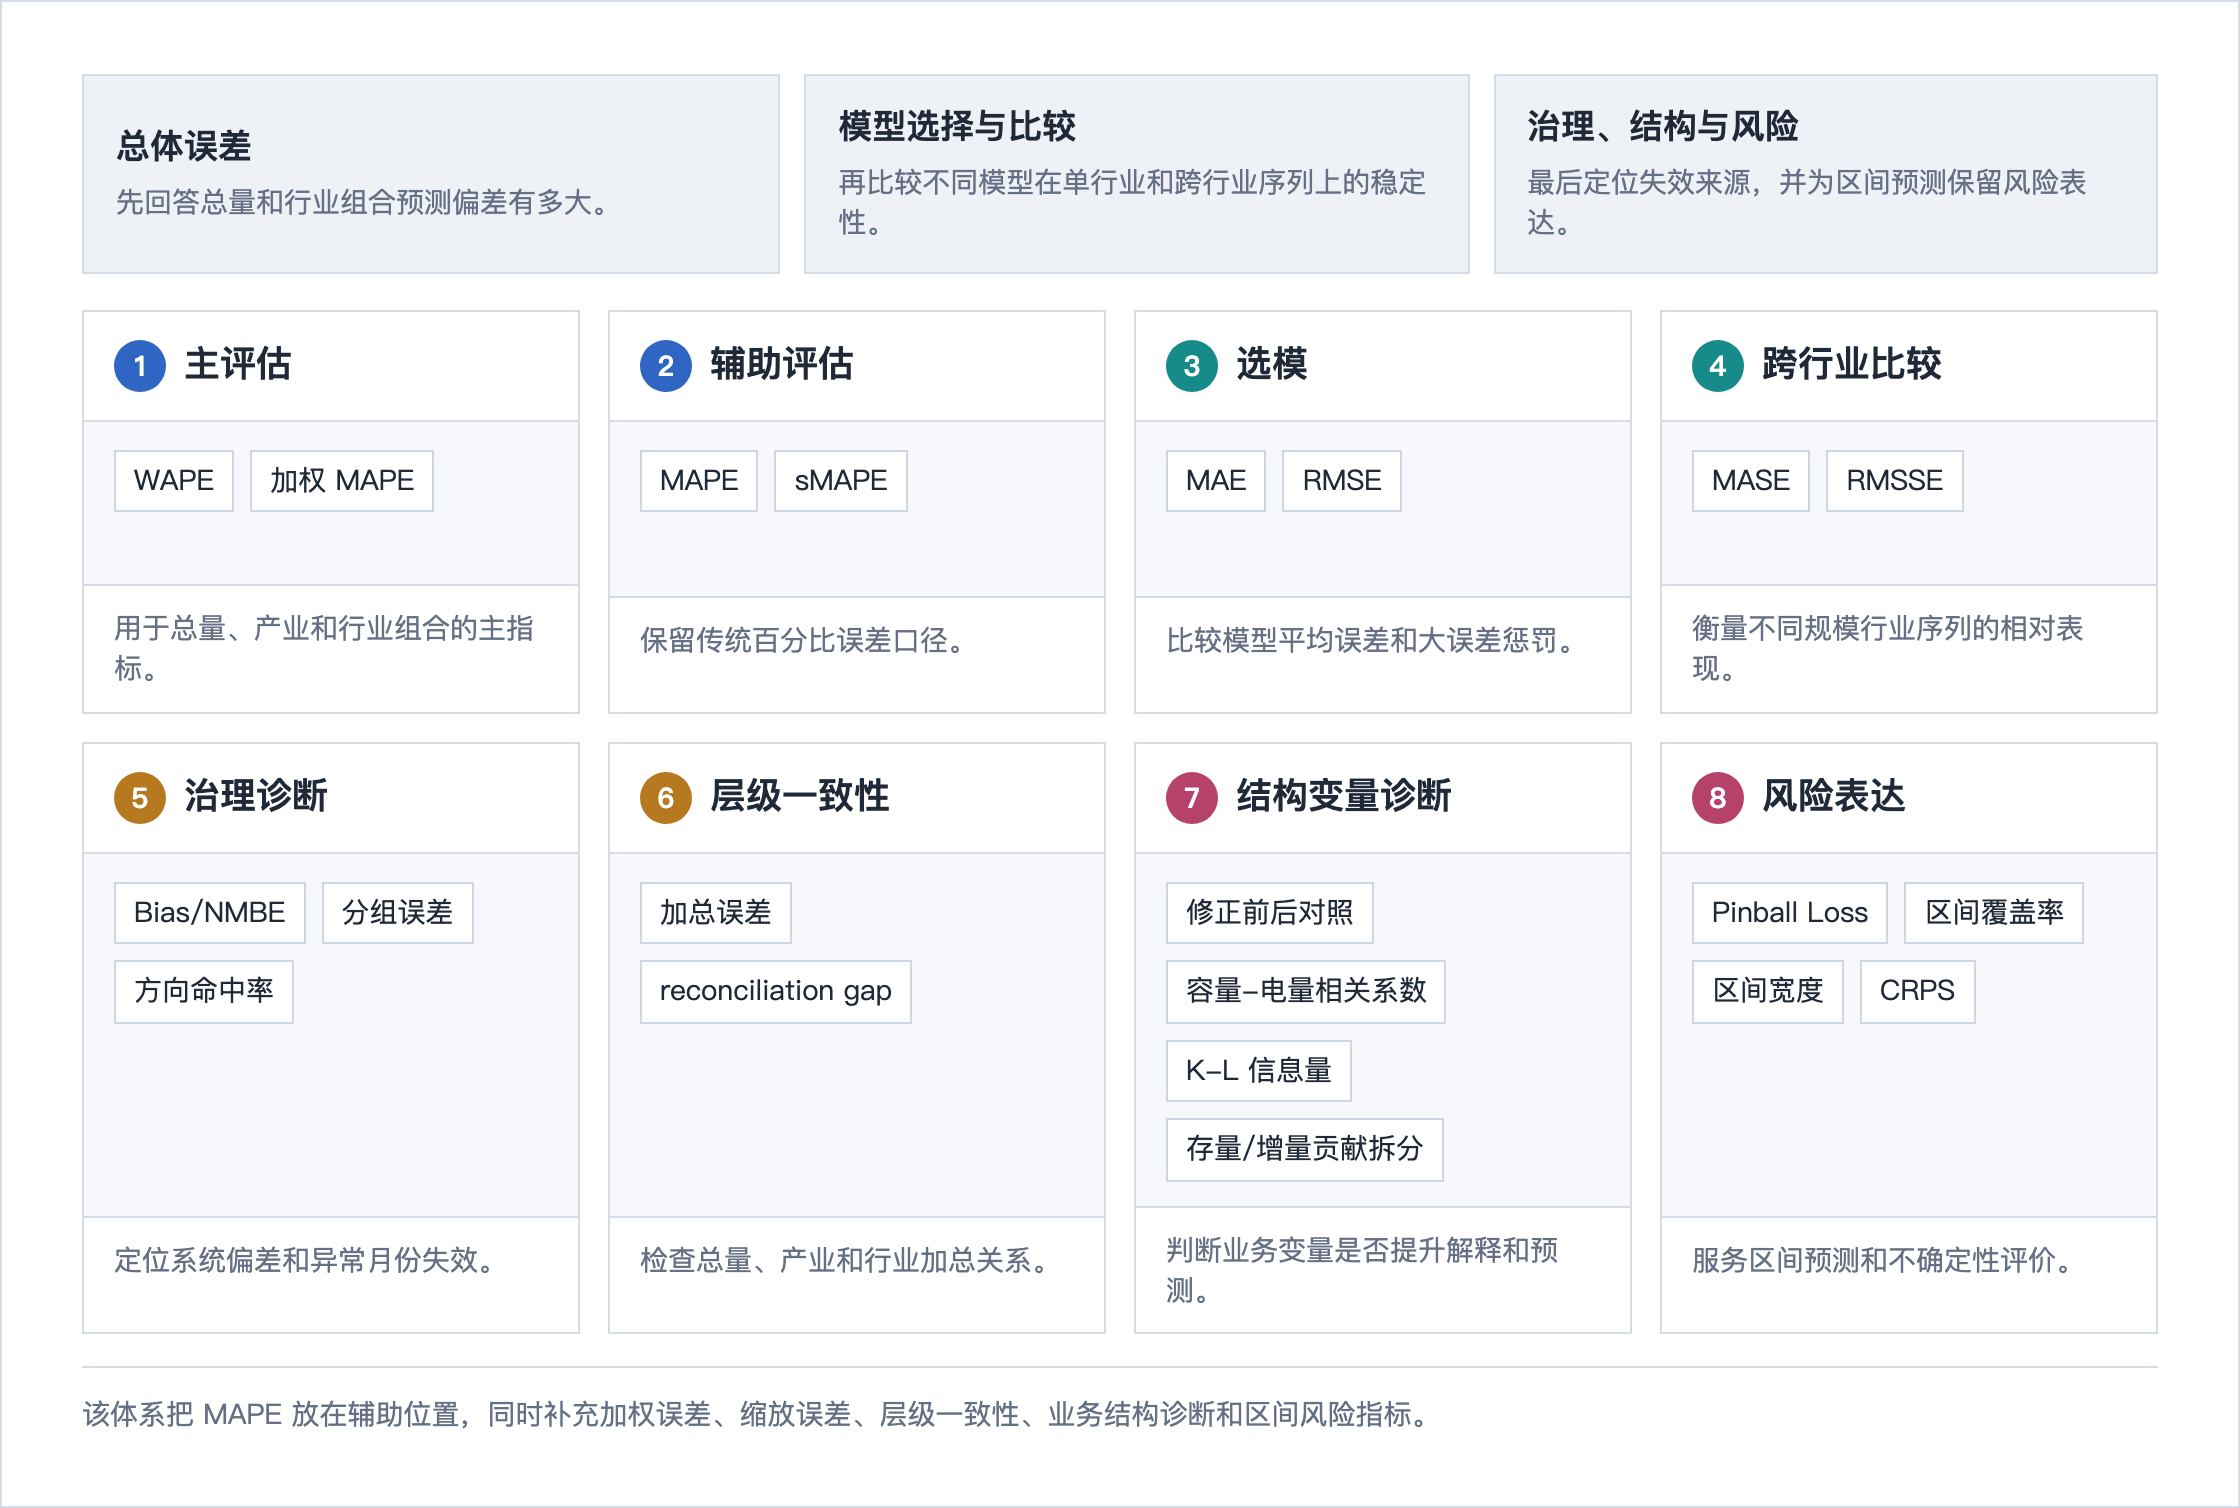
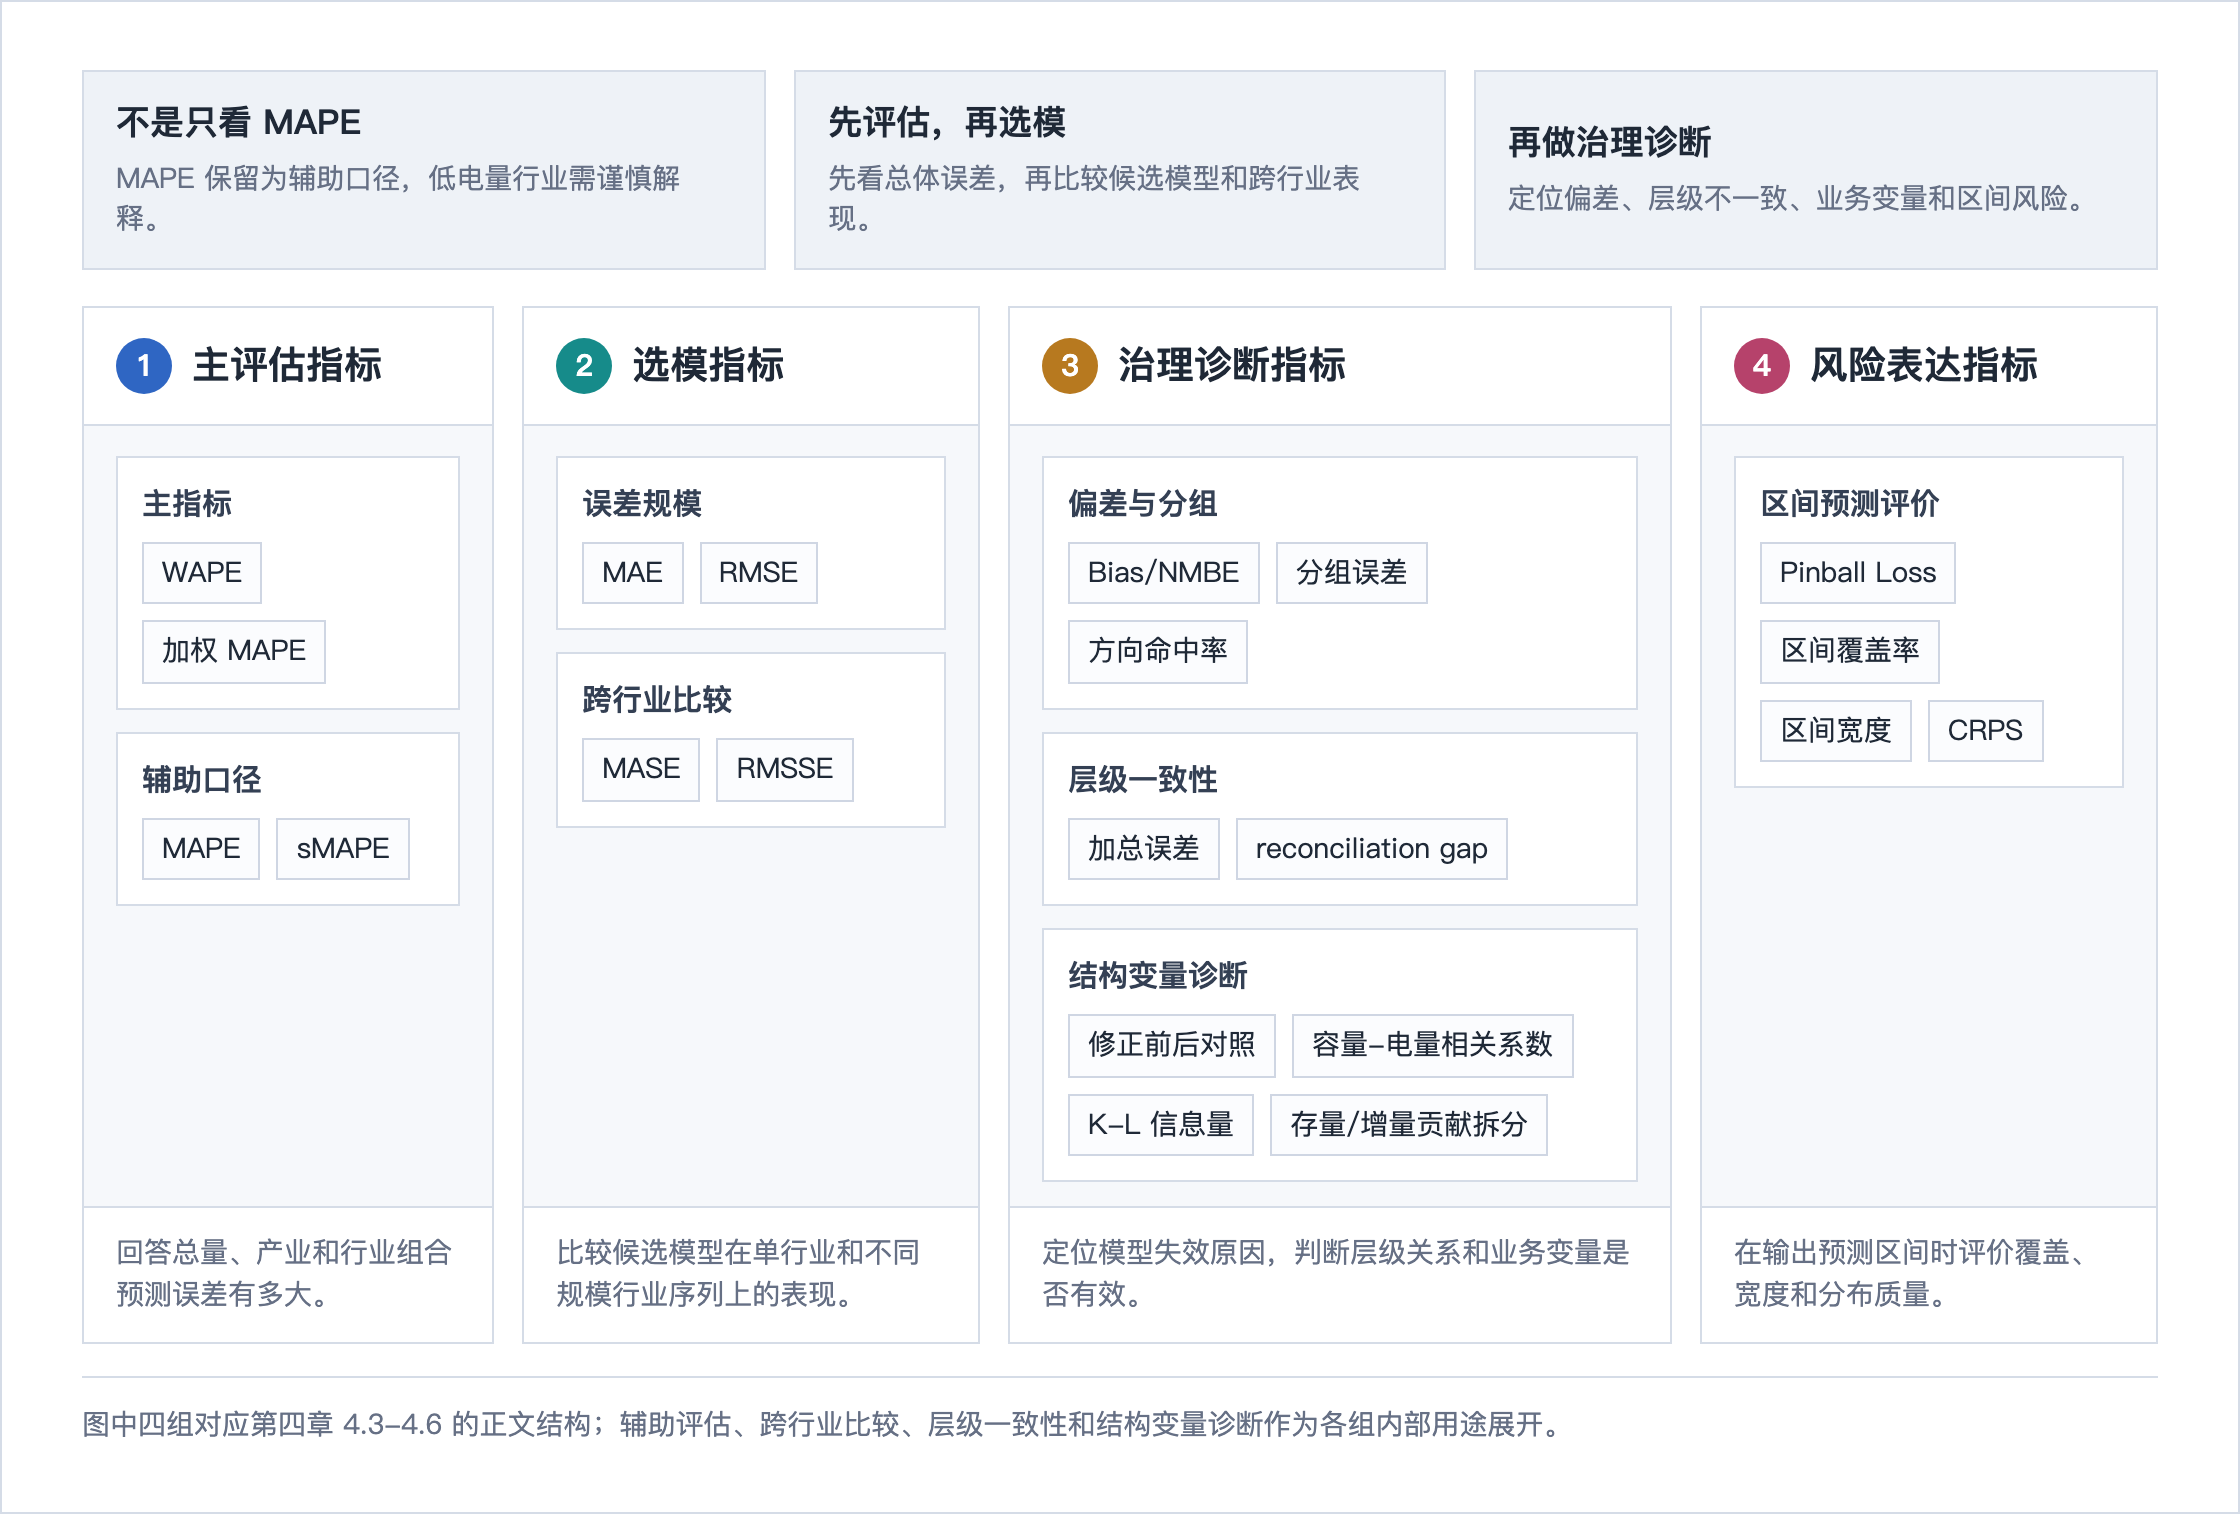
vault backup: 2026-05-13 23:34:50
Affected files:
.obsidian/workspace.json
Projects/Zheng/江苏月度售电量/综述修改开始/attachment/evaluation-metric-layer-framework.png
Projects/Zheng/江苏月度售电量/综述修改开始/江苏月度售电量预测新增思路文献综述.md

diff --git a/Projects/Zheng/江苏月度售电量/综述修改开始/江苏月度售电量预测新增思路文献综述.md b/Projects/Zheng/江苏月度售电量/综述修改开始/江苏月度售电量预测新增思路文献综述.md
@@ -144,9 +144,9 @@
 
 ### 4.1 本章总述
 
-分产业、分行业预测同时涉及行业规模差异、低电量行业、春节和极端天气异常月、层级加总一致性、业务结构变量解释和区间风险表达。单一平均百分比误差难以覆盖这些需求。指标体系宜按用途分层组织，既保留主评估和辅助评估口径，也服务选模、跨行业比较、模型治理、层级一致性、结构变量诊断和风险表达。
+分产业、分行业预测同时涉及行业规模差异、低电量行业、春节和极端天气异常月、层级加总一致性、业务结构变量解释和区间风险表达。单一平均百分比误差难以覆盖这些需求。指标体系宜围绕正文结构分为主评估指标、选模指标、治理诊断指标和风险表达指标四组；其中 MAPE/sMAPE 作为辅助评估口径保留，MASE/RMSSE 用于跨行业比较，层级一致性和结构变量诊断纳入治理诊断。
 
-如图 4-1 所示，本项目的评估指标不应只围绕 MAPE 展开，而应覆盖总体误差、传统辅助口径、模型选择、跨行业比较、模型治理、层级一致性、业务变量诊断和风险表达。
+如图 4-1 所示，本项目的评估指标不应只围绕 MAPE 展开，而应从“主评估、选模、治理诊断、风险表达”四类用途组织，再在各类内部展开辅助口径和专项诊断。
 
 <div align="center">
   <img src="./attachment/evaluation-metric-layer-framework.png" alt="评估指标分层体系图" width="92%">
